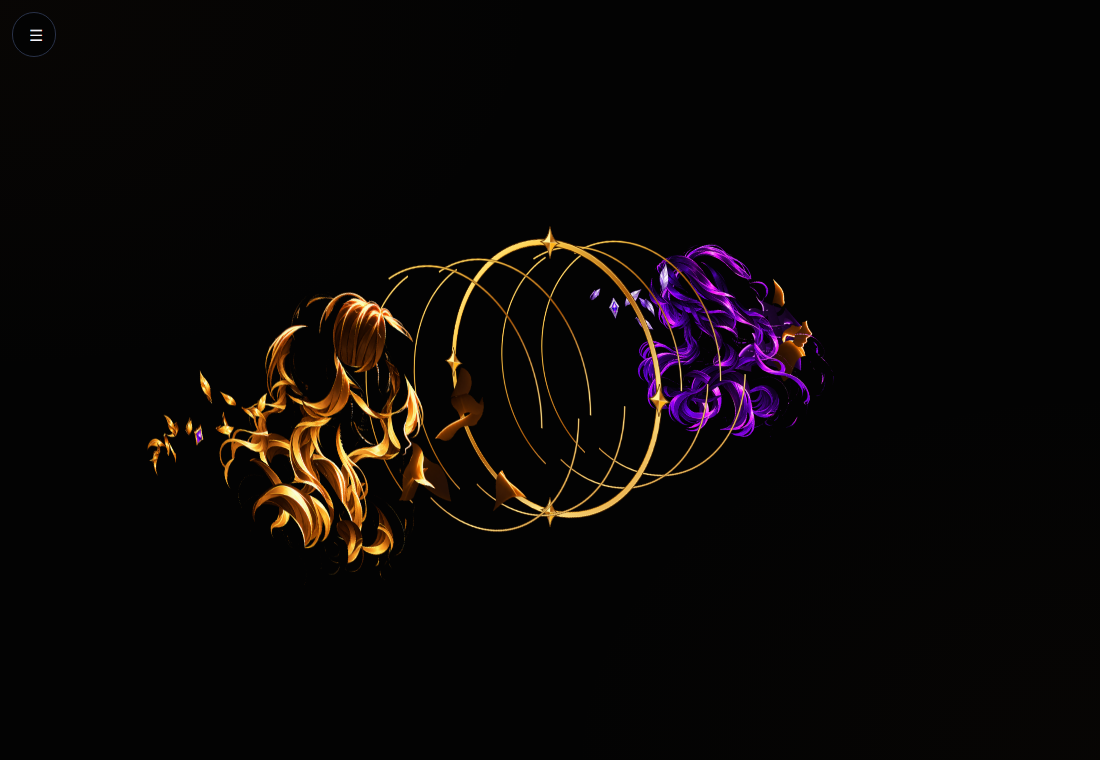
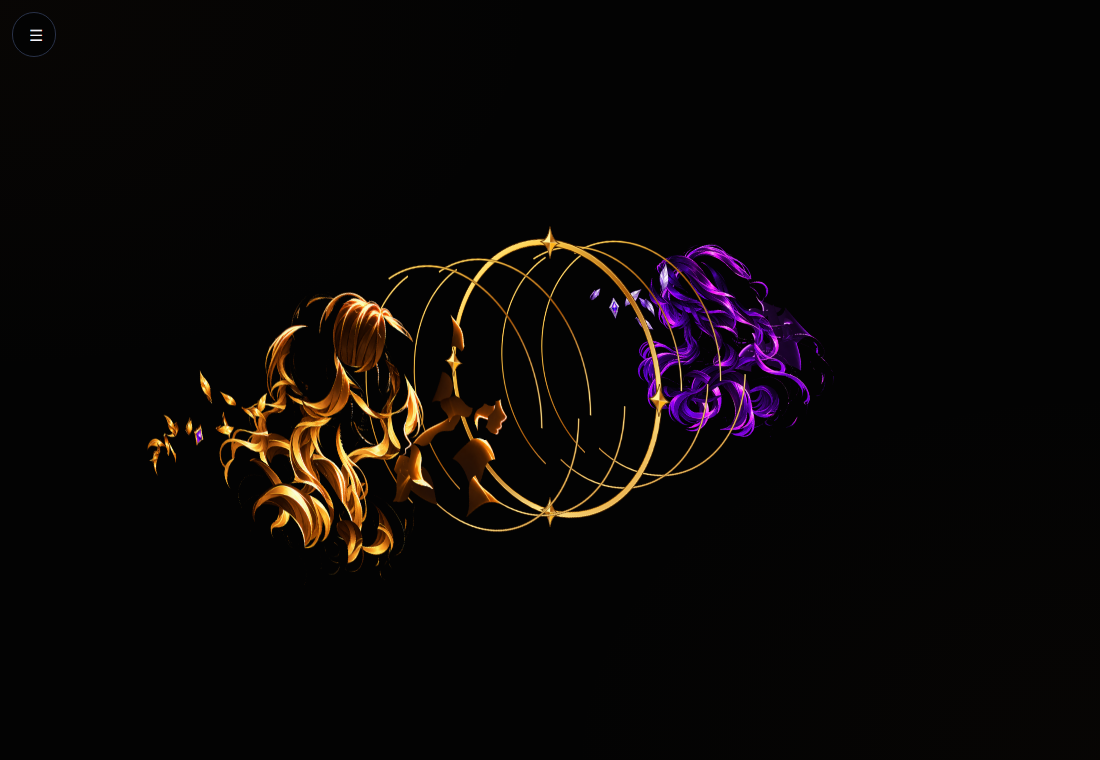
[#251] fix(emblem): keep gold fragments on their own side

diff --git a/apps/stellar-desktop-e2e/src/emblem.spec.ts b/apps/stellar-desktop-e2e/src/emblem.spec.ts
@@ -1,5 +1,69 @@
 import { expect, test } from '@playwright/test';
 
+test('all gold fragments stay on the gold side and all violet fragments stay on the violet side', async ({
+  page,
+}) => {
+  await page.emulateMedia({ reducedMotion: 'reduce' });
+  await page.goto('/');
+  const manifest = await (
+    await page.request.get('/emblem/manifest.json')
+  ).json();
+  const camera = page.locator('.camera');
+  await expect(page.locator('.plane')).toHaveCount(81);
+  await expect
+    .poll(() => camera.evaluate((element) => element.clientWidth))
+    .toBe(480);
+  const fragments = await camera.evaluate((element, layers) => {
+    const cameraStyle = getComputedStyle(element);
+    const cameraOrigin = cameraStyle.transformOrigin.split(' ').map(parseFloat);
+    const view = new DOMMatrix(cameraStyle.transform);
+    return Array.from(element.querySelectorAll<HTMLElement>('.plane')).flatMap(
+      (plane, index) => {
+        const layer = layers[index];
+        if (!layer.centroid || !/^layers\/(gold|violet)-/.test(layer.file))
+          return [];
+        const style = getComputedStyle(plane);
+        const origin = style.transformOrigin.split(' ').map(parseFloat);
+        const transform = new DOMMatrix(style.transform);
+        const point = transform.transformPoint(
+          new DOMPoint(
+            (layer.centroid.x * plane.clientWidth) / 1280 - origin[0],
+            (layer.centroid.y * plane.clientHeight) / 1280 - origin[1],
+          ),
+        );
+        const projected = view.transformPoint(
+          new DOMPoint(
+            point.x + origin[0] - cameraOrigin[0],
+            point.y + origin[1] - cameraOrigin[1],
+            point.z,
+          ),
+        );
+        return [
+          {
+            id: layer.id,
+            gold: layer.file.startsWith('layers/gold-'),
+            depth: transform.m43,
+            x: projected.x / projected.w,
+          },
+        ];
+      },
+    );
+  }, manifest.layers);
+  expect(fragments).toHaveLength(68);
+  const gold = fragments.filter((fragment) => fragment.gold);
+  const violet = fragments.filter((fragment) => !fragment.gold);
+  expect(gold).toHaveLength(38);
+  expect(violet).toHaveLength(30);
+  for (const fragment of gold) {
+    expect(fragment.depth, fragment.id).toBeGreaterThan(0);
+    expect(fragment.x, fragment.id).toBeLessThan(0);
+  }
+  for (const fragment of violet) {
+    expect(fragment.depth, fragment.id).toBeLessThan(0);
+    expect(fragment.x, fragment.id).toBeGreaterThan(0);
+  }
+});
+
 test('body fragments contain only small portions of the visible avatar silhouette', async ({
   page,
 }) => {
@@ -380,13 +444,48 @@ test('actual scene rotates in idle, assembles frontward and rebases interrupted 
       ),
     );
   const depths = planeDepths
-    .filter((_, index) => !manifest.layers[index].spin)
+    .filter((_, index) =>
+      manifest.layers[index].file.startsWith('layers/violet-'),
+    )
     .sort((a, b) => a - b);
   const interval = depths[1] - depths[0];
   expect(interval).toBeGreaterThan(4);
   const gaps = depths.slice(1).map((depth, index) => depth - depths[index]);
-  for (let index = 1; index < 33; index++)
-    expect(gaps[index]).toBeGreaterThan(gaps[index - 1]);
+  const violetPlanes = manifest.layers
+    .map((layer: { planeIndex: number; file: string }, index: number) => ({
+      ...layer,
+      depth: planeDepths[index],
+    }))
+    .filter((layer: { file: string }) =>
+      layer.file.startsWith('layers/violet-'),
+    )
+    .sort(
+      (a: { planeIndex: number }, b: { planeIndex: number }) =>
+        a.planeIndex - b.planeIndex,
+    );
+  const intervals = violetPlanes
+    .slice(1)
+    .map((current: { planeIndex: number; depth: number }, index: number) => ({
+      stride: current.planeIndex - violetPlanes[index].planeIndex,
+      gap: current.depth - violetPlanes[index].depth,
+    }));
+  const adjacent = intervals
+    .slice(1)
+    .map((current: { stride: number; gap: number }, index: number) => ({
+      current,
+      previous: intervals[index],
+    }))
+    .filter(
+      ({
+        current,
+        previous,
+      }: {
+        current: { stride: number };
+        previous: { stride: number };
+      }) => current.stride === 1 && previous.stride === 1,
+    );
+  for (const { current, previous } of adjacent)
+    expect(current.gap).toBeGreaterThan(previous.gap);
   const ringDepths = planeDepths
     .filter((_, index) => manifest.layers[index].spin)
     .sort((a, b) => a - b);
@@ -408,8 +507,7 @@ test('actual scene rotates in idle, assembles frontward and rebases interrupted 
         (layer: { assembly: { file: string } }) => layer.assembly.file === file,
       ),
     ).toHaveLength(3);
-  expect(gaps[Math.floor(gaps.length / 2)]).toBeGreaterThan(interval * 3);
-  expect(depths[0] + (depths.at(-1) ?? 0)).toBeCloseTo(0, 2);
+  expect(gaps.at(-1)).toBeGreaterThan(interval * 3);
   const outer = await page.request.get('/emblem/layers/outer-frame.svg');
   expect((await outer.text()).match(/<g transform="translate\(/g)).toHaveLength(
     4,

diff --git a/libs/stellar-emblem/production-v1/README.md b/libs/stellar-emblem/production-v1/README.md
@@ -4,7 +4,7 @@ This production candidate follows the approved hybrid route for [#176](https://g
 
 ## Experimental fragmentation (#251)
 
-Each hair image is partitioned into twelve disjoint curved lock groups using the built-in ImageGen-authored `sources/*-hair-segmentation-v2.png` maps. The maps label strand boundaries rather than repainting hair. `render-strands.mjs` assigns every original pixel to one label, extends labels over small map/silhouette differences, exports transparent fragments and verifies their recomposition byte-for-byte. These are approximate strand groups, not individually repainted hairs. The gold ornament uses fourteen leaf regions plus its intact gem/setting; violet uses six leaves plus its gem/setting. Their original pixels are extracted with the same segmentation process and restored through complete assembly groups. Largest interior cores guide label growth through each real ornament, avoiding stray outlines on other leaves. Body images use eleven curved organic regions per color, authored with ImageGen body segmentation maps and extracted from the original pixels. No region retains more than 22% of its visible source silhouette. Four gold body pieces join the back half of the stack so the ring core remains centered. The exporter rejects negligible fragments and verifies isolated source recomposition plus the complete rasterized-source registration. Original raster files and assembled previews remain unchanged. Settlement uses the validated complete `assembly` group to restore each full original body/hair/ornament image and secondary ring SVG, avoiding seams at dock sizes; originals preload while idle. Invalid or incomplete group metadata fails validation.
+Each hair image is partitioned into twelve disjoint curved lock groups using the built-in ImageGen-authored `sources/*-hair-segmentation-v2.png` maps. The maps label strand boundaries rather than repainting hair. `render-strands.mjs` assigns every original pixel to one label, extends labels over small map/silhouette differences, exports transparent fragments and verifies their recomposition byte-for-byte. These are approximate strand groups, not individually repainted hairs. The gold ornament uses fourteen leaf regions plus its intact gem/setting; violet uses six leaves plus its gem/setting. Their original pixels are extracted with the same segmentation process and restored through complete assembly groups. Largest interior cores guide label growth through each real ornament, avoiding stray outlines on other leaves. Body images use eleven curved organic regions per color, authored with ImageGen body segmentation maps and extracted from the original pixels. No region retains more than 22% of its visible source silhouette. All gold body pieces use explicit positive source depths from 530 to 830, below their own hair. Their indexed slots remain layout bookkeeping only; no gold character fragment occupies the negative-depth violet side. Violet body, hair and ornament pieces remain at negative depth. The exporter rejects negligible fragments and verifies isolated source recomposition plus the complete rasterized-source registration. Original raster files and assembled previews remain unchanged. Settlement uses the validated complete `assembly` group to restore each full original body/hair/ornament image and secondary ring SVG, avoiding seams at dock sizes; originals preload while idle. Invalid or incomplete group metadata fails validation.
 
 Fragments use a scrambled depth order within their own hair or ornament group, lateral offsets and small rotations in the exploded pose. All body fragments remain behind their hair and all ornaments in front. All five rings share a straight center axis with zero lateral offset; the complete starred outer frame remains centered at depth zero. The optional `outer-dense` profile uses 49.4-source-unit nominal spacing with continuously smaller gaps toward both ends. The main starred ring stays whole. Each of the four secondary circles has three 120-degree pixel-partitioned arcs. They remain coaxial but use uneven explicit source depths of [-570, -480, -410], [-330, -240, -170], [150, 240, 330] and [390, 480, 570]. A thirteen-plane core at spacing 80 preserves the previous raster fragment depths and overall extent; explicit per-arc depths override indexed depth. Raster fragment centers move inward according to an elliptical radial taper of 0.94, using their measured alpha-weighted centroids after exploded rotation/scatter. The contraction increases with absolute depth; individual locks keep their shape and size. Ring planes have no centroid and stay on the axis. The camera, one-second transitions, in-plane ring motion and reduced-motion behavior remain. This is an experimental alternative to the historical uniformly spaced fifteen-plane presentation described below, pending user design review. Browser evidence does not qualify native performance.
 
@@ -24,7 +24,7 @@ The #202 correction introduced the oblique separated scene. #204 retains all six
 
 From the installed workspace, run `node libs/stellar-emblem/render-production.mjs`. It exports the complete registered PNG layers from untouched sources, generates the five safe geometric SVGs and manifest, then recreates the canonical and 512/48/64/96 px transparent previews and dark contact sheet. Generated outputs are deterministic for the same Chromium renderer. Canvas drawing is standard composition/export, not a second creative rendering route.
 
-The script checks source dimensions, real transparent/opaque/partial alpha, empty export borders, safe SVG element/attribute and local-reference allowlists, safe relative layer paths and zero assembly poses. It compares direct canonical composition against applying the manifest's assembled poses. `previews/validation.json` records the actual runtime byte count and a 8 MiB experimental budget for the manifest, fragments and assembled originals (6,492,302 bytes). Sources/history and review previews are excluded from this runtime budget. Runtime SVGs contain no embedded rasters, scripts, event handlers, external references or foreign objects. The consumer validates safe SVG/PNG/WebP paths and retains its existing image load-failure fallback.
+The script checks source dimensions, real transparent/opaque/partial alpha, empty export borders, safe SVG element/attribute and local-reference allowlists, safe relative layer paths and zero assembly poses. It compares direct canonical composition against applying the manifest's assembled poses. `previews/validation.json` records the actual runtime byte count and a 8 MiB experimental budget for the manifest, fragments and assembled originals (6,492,456 bytes). Sources/history and review previews are excluded from this runtime budget. Runtime SVGs contain no embedded rasters, scripts, event handlers, external references or foreign objects. The consumer validates safe SVG/PNG/WebP paths and retains its existing image load-failure fallback.
 
 The inspected contact sheet preserves a readable gold foreground/violet background, two profile edges, both rings and cardinal accents at 512 px. At 96 px the hair groups and contrasting pins remain visible; at 64 px the silhouette and colour separation are stronger than the individual ornaments. At 48 px the pin facets and individual strands merge; the opposite profiles and gold frame remain recognizable. This is an explicit scale tradeoff, not a claim that every full-size detail survives docking. `previews/exploded512.png` is a flat registration preview with the depth camera omitted; it does not represent the separated idle scene.
 

diff --git a/apps/stellar-desktop/public/emblem/provenance.md b/apps/stellar-desktop/public/emblem/provenance.md
@@ -2,15 +2,15 @@
 
 Runtime PNGs are byte-identical copies from [the production-v1 source pack](https://github.com/DanielssonThomas/Stellar/blob/develop/libs/stellar-emblem/production-v1/README.md); JSON and SVG copies match after LF normalization. Issue #176 supplied the hybrid raster artwork and SVG geometry. #204 added circle planes, #211 divided bodies into registered clips, and #221 corrected body registration. The six original generated cutouts remain unchanged.
 
-Experiment #251 uses 81 planes. Built-in ImageGen supplied six flat body/hair/leaf segmentation maps, preserved with their prompts in the source library. Deterministic Canvas extraction assigns each original hair pixel to one of twelve curved groups per color. Each isolated rasterized source recomposes pixel-identically; settled assembly restores the exact original SVG/raster stack. Direct vector Canvas composition and rasterized arc composition can differ at antialiased stroke edges, as recorded in source validation. Complete registered assembly groups preload and restore their original body/hair/ornament and secondary-ring images after settlement. Jewelry uses twenty leaf regions and two gemstone settings; bodies use eleven wavy organic regions per color with scrambled poses. The main ring stays whole; the four secondary rings each use three coaxial arcs at varied explicit depths. Raster fragment depth and the overall stack extent are preserved. The complete main frame stays centered; outer fragments use progressively denser spacing and an elliptical inward taper of their measured visible centers. All assembled transforms remain zero.
+Experiment #251 uses 81 planes. Built-in ImageGen supplied six flat body/hair/leaf segmentation maps, preserved with their prompts in the source library. Deterministic Canvas extraction assigns each original hair pixel to one of twelve curved groups per color. Each isolated rasterized source recomposes pixel-identically; settled assembly restores the exact original SVG/raster stack. Direct vector Canvas composition and rasterized arc composition can differ at antialiased stroke edges, as recorded in source validation. Complete registered assembly groups preload and restore their original body/hair/ornament and secondary-ring images after settlement. Jewelry uses twenty leaf regions and two gemstone settings; bodies use eleven wavy organic regions per color with scrambled poses. The main ring stays whole; the four secondary rings each use three coaxial arcs at varied explicit depths. Raster fragment depth and the overall stack extent are preserved. The complete main frame stays centered; outer fragments use progressively denser spacing and an elliptical inward taper of their measured visible centers. Gold body fragments stay at positive depths 530–830, while all violet character fragments stay at negative depth. All assembled transforms remain zero.
 
-The experimental runtime payload is 6,492,302 bytes across the manifest and 91 unique image files, within an 8 MiB budget. Text newline conventions can change this count slightly. References, source maps, registration, generation prompts and review captures remain in the source library. Native appearance/performance remains separate verification; this pack is an experimental candidate.
+The experimental runtime payload is 6,492,456 bytes across the manifest and 91 unique image files, within an 8 MiB budget. Text newline conventions can change this count slightly. References, source maps, registration, generation prompts and review captures remain in the source library. Native appearance/performance remains separate verification; this pack is an experimental candidate.
 
 Copy integrity was checked against source files on this checkout. SHA-256 hashes normalize JSON/SVG text to LF and preserve exact PNG bytes.
 
 | Runtime file                    | SHA-256                                                          |
 | ------------------------------- | ---------------------------------------------------------------- |
-| manifest.json                   | 9afa9eb8dd82b6e2d00a77c4b29abafdcb69a2a35204f74bf68a48dc865810fe |
+| manifest.json                   | 1a04a717d15761e76fc8dd6391bd14496d12c3d66b464a21b9604a81dbbeb044 |
 | layers/violet-body-1.png        | 704433353b3e00d6246fdeacbaabafb609ca8b6dd6cf211c6ff510dcab81cba0 |
 | layers/violet-body.png          | 2d26d670fbaab0630cd7d243e55ba75de39b8662d34507fd3ceefef482868730 |
 | layers/violet-body-2.png        | d705f4333a57d91a10b24ce0d7238bb6e8f5a8bc4c308d9656e7bcabf64557d5 |

diff --git a/libs/stellar-emblem/fixtures/dense-experiment/README.md b/libs/stellar-emblem/fixtures/dense-experiment/README.md
@@ -5,3 +5,5 @@ Runtime evidence for [#251](https://github.com/DanielssonThomas/Stellar/issues/2
 The experiment keeps the complete main middle frame and exact settled assembly. Hair uses twelve curved strand groups per color, derived from ImageGen segmentation maps of the original pixels; jewelry separates into twenty leaf regions and two intact gemstone settings. Bodies use eleven wavy organic regions per color. The main ring stays whole; each secondary ring separates into three coaxial arcs at uneven depth gaps. Outer fragment gaps compress toward the stack ends. The original raster and assembled preview bytes remain unchanged; exporter and browser pixel comparisons verify registration at full and supported small sizes. The strand exports and assembled originals total 91 unique runtime images within a 8 MiB experimental budget.
 
 Run `corepack pnpm exec nx run stellar-desktop:serve-static --port=4311` after building, then open `http://localhost:4311`. Use **Experience menu → Start activity** to assemble and **Dismiss** to return. This browser route supports manual visual review without native Ivy or microphone connectivity.
+
+Color separation is verified from actual rendered transforms: all gold body/hair/ornament centers project left of the main ring center and all violet centers project right. Gold body pieces occupy explicit positive depths (530–830); violet character pieces remain at negative depth. Ring and canonical assembly geometry are unchanged by this correction.
